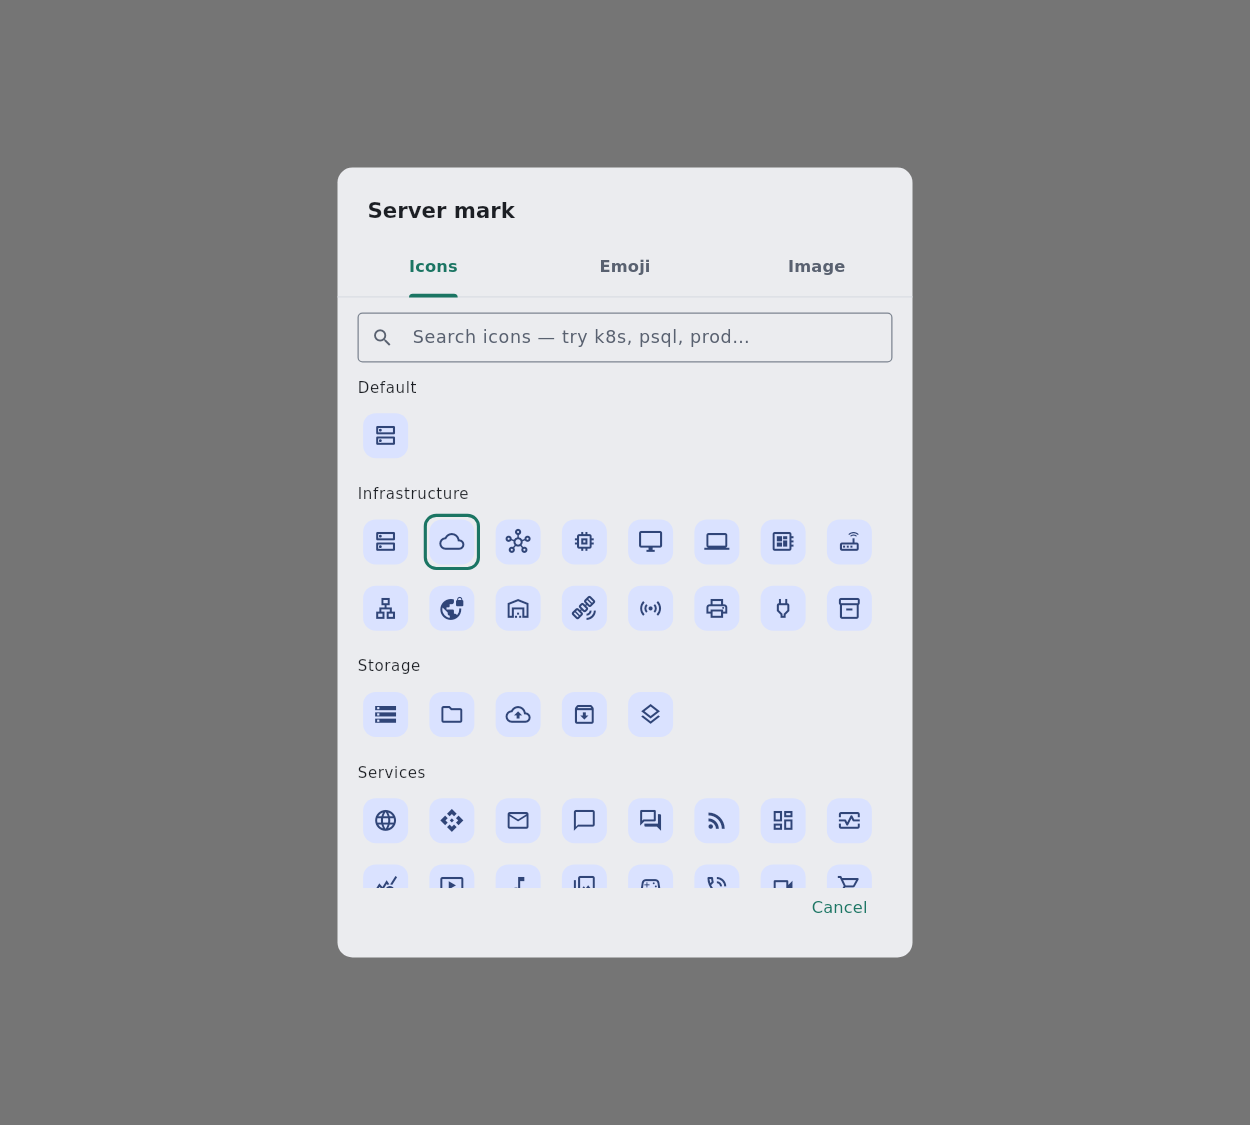
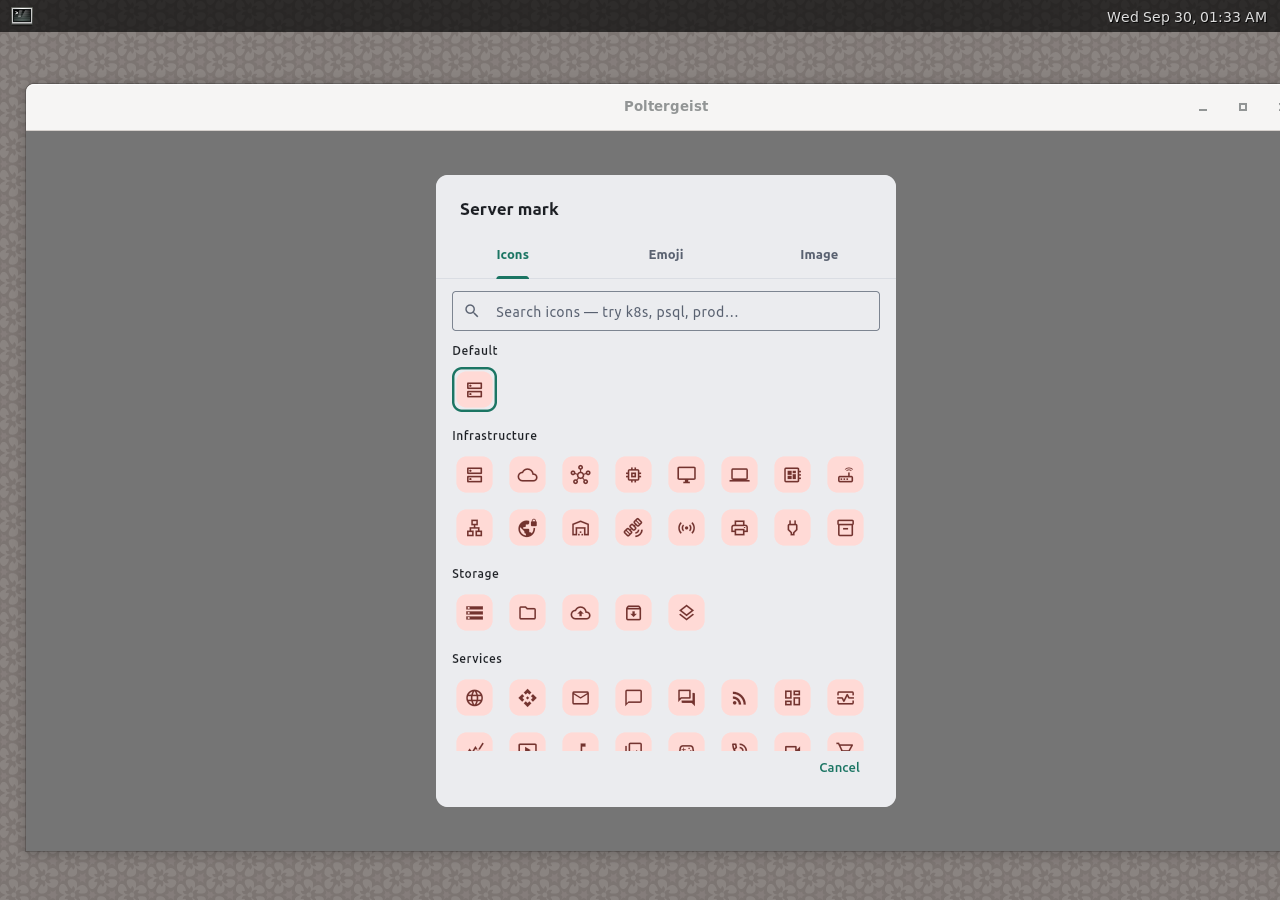
Add native S4 UI evidence
Replace widget renders with native Linux captures for all five affected surfaces.

Codex-Session: codex://threads/01a0ee52-e707-7b62-97ee-c52720ba185d

Changed region(s): [[0.0, 0.0933, 1.0, 0.9022], [0.0, 0.0, 1.0, 0.0622], [0.624, 0.28, 0.6552, 0.3111]]

diff --git a/tasks/s4-fast-follow/screenshots/README.md b/tasks/s4-fast-follow/screenshots/README.md
@@ -1,24 +1,25 @@
 # S4 UI captures
 
-Light-theme, real-font widget renders captured with Flutter 3.47.2 on
-2026-09-29. `before-*` is `origin/main` at `75bc19a5`; `after-*` is this
-PR's worktree. Each pair uses the same 1000×900 Linux-target harness.
+Light-theme native Linux runs captured with Flutter 3.47.2 on 2026-09-30.
+`before-*` is commit `75bc19a5`; `after-*` is this PR. Both builds ran in the
+production GTK runner at 1280×900 under Weston with Mesa llvmpipe.
 
 | Surface | Before | After |
 |---|---|---|
-| New server authentication | `before-server-editor-light.png` | `after-server-editor-light.png` |
-| Keyboard-interactive challenge | `before-keyboard-interactive-light.png` | `after-keyboard-interactive-light.png` |
-| Server mark picker | `before-mark-picker-light.png` | `after-mark-picker-light.png` |
+| New server authentication | [`before-server-editor-light.png`](before-server-editor-light.png) | [`after-server-editor-light.png`](after-server-editor-light.png) |
+| Keyboard-interactive challenge | [`before-keyboard-interactive-light.png`](before-keyboard-interactive-light.png) | [`after-keyboard-interactive-light.png`](after-keyboard-interactive-light.png) |
+| Server mark picker | [`before-mark-picker-light.png`](before-mark-picker-light.png) | [`after-mark-picker-light.png`](after-mark-picker-light.png) |
+| ssh_config import preview | [`before-ssh-config-import-light.png`](before-ssh-config-import-light.png) | [`after-ssh-config-import-light.png`](after-ssh-config-import-light.png) |
+| Blocked host-key menu | [`before-blocked-host-key-menu-light.png`](before-blocked-host-key-menu-light.png) | [`after-blocked-host-key-menu-light.png`](after-blocked-host-key-menu-light.png) |
 
-The capture command in each worktree was:
+Each worktree used the same temporary entrypoint and production widgets:
 
 ```bash
-FLUTTER_ROOT=<flutter-sdk> \
-POLTERGEIST_CAPTURE_DIR=<pr-worktree>/tasks/s4-fast-follow/screenshots \
-flutter test test/_tmp_s4_capture_test.dart
+flutter run -d linux --debug --no-pub \
+  -t lib/s4_capture_harness.dart \
+  --dart-define=S4_SURFACE=<surface>
+weston-screenshooter
 ```
 
-The temporary capture harness was removed after both three-test runs passed.
-Native `flutter run` capture was unavailable: this container has no display,
-`Xvfb`, `xvfb-run`, CMake, Ninja, or GTK `pkg-config` toolchain. These are
-widget renders, not native-window captures.
+The temporary entrypoints were removed after all ten native captures were
+inspected.

diff --git a/docs/STATUS.md b/docs/STATUS.md
@@ -9588,10 +9588,10 @@ analysis and all 249 tests pass with 3 skips. Flutter analysis and all 3,024
 app tests pass. The 140 root benchmark tests, import-boundary check, and
 Séance pin audit pass. One concurrent core/app run reported the real incident
 store round-trip once; its focused rerun and the exclusive full core rerun
-passed. Three inspected light-theme before/after widget pairs are in
-[`tasks/s4-fast-follow/screenshots/`](../tasks/s4-fast-follow/screenshots/);
-native capture is unavailable on this host because it has no display or Linux
-desktop toolchain.
+passed. Five inspected light-theme before/after native Linux pairs are in
+[`tasks/s4-fast-follow/screenshots/`](../tasks/s4-fast-follow/screenshots/).
+They cover the server editor, keyboard-interactive challenge, mark picker,
+ssh_config import preview, and blocked host-key menu.
 
 Remaining gaps are tracked below: the next-tag re-pin (item 2), unknown
 `ServerConfig` key preservation (item 35), upstream editor drift (item 36),
